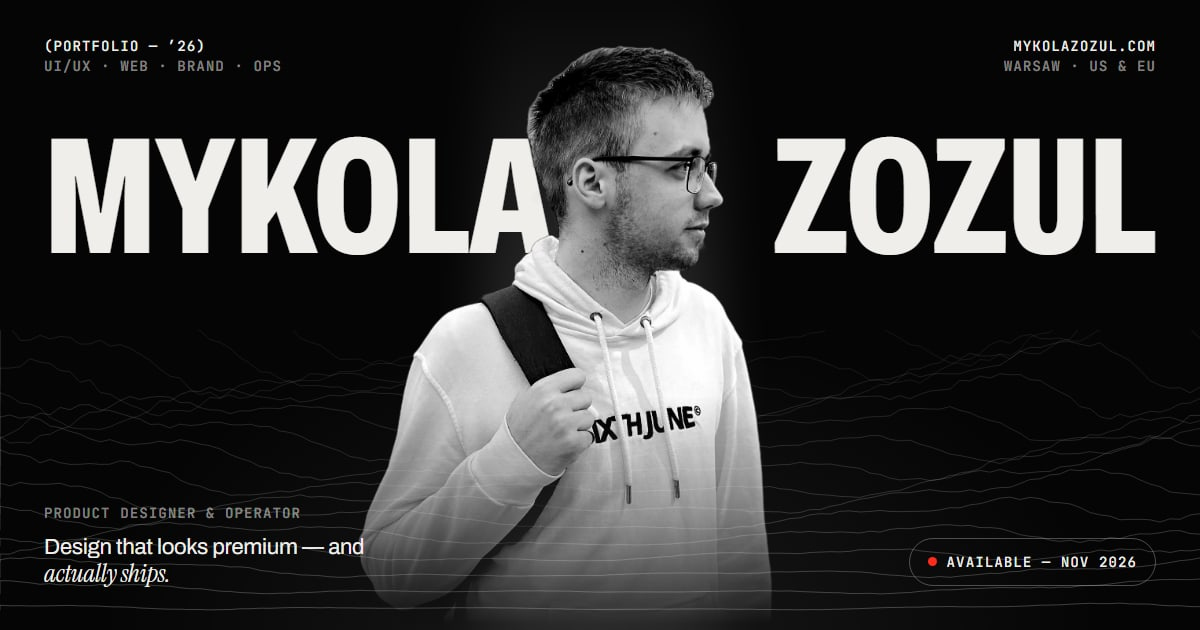
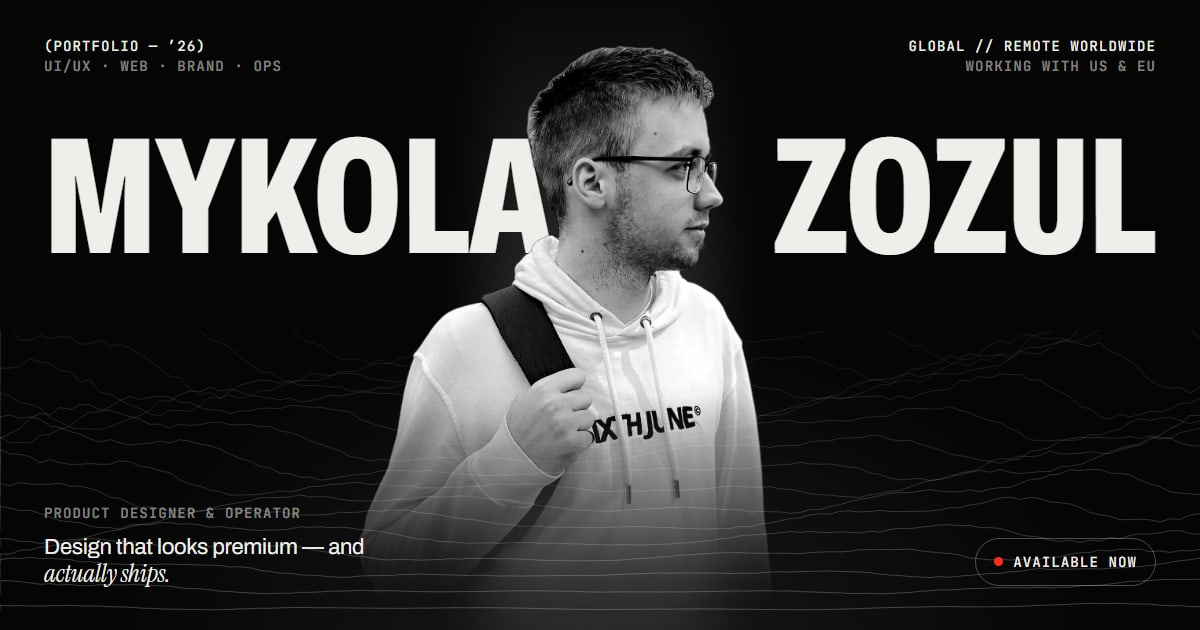
Content update: remote-worldwide, price on request, WhatsApp
- Clock shows the visitor's local time; location is "Global // Remote Worldwide"
- Availability: "Available now"; models show "Price on request"
- Support after launch: 14 days; neutral agreement copy (no B2B claim)
- Removed warehouse role and Illustrator; added WhatsApp (copy username)
- No custom domain yet: dropped canonical/og:url/sitemap, relative OG image,
  links page QR/vCard/share use the current origin
- Re-rendered OG image

Changed region(s): [[0.2775, 0.6635, 0.6475, 0.9651], [0.74, 0.0603, 0.9867, 0.1206], [0.7708, 0.8746, 0.9558, 0.9048]]

diff --git a/index.html b/index.html
@@ -5,7 +5,6 @@
   <meta name="viewport" content="width=device-width, initial-scale=1, viewport-fit=cover">
   <title>Mykola Zozul — Product Designer &amp; Operator | UI/UX, Web &amp; Brand Design</title>
   <meta name="description" content="Mykola Zozul — product designer and operator for startups and brands in the US and EU. UI/UX, websites, brand identity and motion, plus the operations to ship them. Founder of Vertex Studio.">
-  <link rel="canonical" href="https://mykolazozul.com/">
   <meta name="theme-color" content="#050505">
   <meta name="color-scheme" content="dark">
   <meta name="author" content="Mykola Zozul">
@@ -16,8 +15,7 @@
   <meta property="og:site_name" content="Mykola Zozul">
   <meta property="og:title" content="Mykola Zozul — Product Designer & Operator">
   <meta property="og:description" content="UI/UX, websites, brand and motion design — with the operations experience to actually ship. Working with teams in the US & EU.">
-  <meta property="og:url" content="https://mykolazozul.com/">
-  <meta property="og:image" content="https://mykolazozul.com/assets/img/og.jpg">
+  <meta property="og:image" content="/assets/img/og.jpg">
   <meta property="og:image:width" content="1200">
   <meta property="og:image:height" content="630">
   <meta property="og:image:alt" content="Mykola Zozul — product designer and operator">
@@ -26,7 +24,7 @@
   <meta name="twitter:card" content="summary_large_image">
   <meta name="twitter:title" content="Mykola Zozul — Product Designer & Operator">
   <meta name="twitter:description" content="UI/UX, websites, brand and motion design — with the operations experience to actually ship.">
-  <meta name="twitter:image" content="https://mykolazozul.com/assets/img/og.jpg">
+  <meta name="twitter:image" content="/assets/img/og.jpg">
 
   <link rel="preload" href="/assets/fonts/archivo-var.woff2" as="font" type="font/woff2" crossorigin>
   <link rel="preload" as="image" type="image/webp" href="/assets/img/hero-cutout.webp"
@@ -42,26 +40,15 @@
     "@graph": [
       {
         "@type": "Person",
-        "@id": "https://mykolazozul.com/#person",
         "name": "Mykola Zozul",
         "alternateName": "Микола Зозуль",
         "jobTitle": "Product Designer & Operator",
         "description": "Product designer and operator. UI/UX, web, brand and motion design. Founder of Vertex Studio; former co-founder and Director of Operations at an international charity.",
-        "url": "https://mykolazozul.com/",
-        "image": "https://mykolazozul.com/assets/img/portrait-street.jpg",
         "email": "mailto:mikolazozul@gmail.com",
-        "address": { "@type": "PostalAddress", "addressLocality": "Warsaw", "addressCountry": "PL" },
         "knowsLanguage": ["uk", "pl", "en", "ru", "de"],
         "knowsAbout": ["UI/UX design", "Product design", "Web design", "Brand identity", "Motion design", "Operations", "Partnerships"],
         "worksFor": { "@type": "Organization", "name": "Vertex Studio", "url": "https://vertex-studio-three-phi.vercel.app" },
         "sameAs": ["https://www.linkedin.com/in/mikolazozul/", "https://t.me/mikolazozul", "https://www.instagram.com/mikolazozul/", "https://www.facebook.com/mikolazozul"]
-      },
-      {
-        "@type": "ProfilePage",
-        "@id": "https://mykolazozul.com/#profilepage",
-        "url": "https://mykolazozul.com/",
-        "name": "Mykola Zozul — Portfolio",
-        "mainEntity": { "@id": "https://mykolazozul.com/#person" }
       }
     ]
   }
@@ -110,7 +97,7 @@
         <a class="link-u" href="/links">Links<sup>↗</sup></a>
       </nav>
       <div class="nav__right">
-        <a class="status" href="#contact"><span class="dot"></span>Available — Nov 2026</a>
+        <a class="status" href="#contact"><span class="dot"></span>Available now</a>
         <button class="burger" type="button" aria-label="Open menu" aria-expanded="false" aria-controls="menu"><span></span><span></span></button>
       </div>
     </div>
@@ -128,7 +115,7 @@
     <div class="menu__foot mono">
       <a href="mailto:mikolazozul@gmail.com">mikolazozul@gmail.com</a>
       <a href="https://www.linkedin.com/in/mikolazozul/" target="_blank" rel="noopener">LinkedIn ↗</a>
-      <span class="mute"><span class="dot"></span>&nbsp; Available — Nov 2026</span>
+      <span class="mute"><span class="dot"></span>&nbsp; Available now</span>
     </div>
   </div>
 
@@ -157,7 +144,7 @@
       <div class="hero__top">
         <div class="wrap mono">
           <span class="fade-up" style="--d:.05s">(Portfolio — ’26)<br><span class="mute">UI/UX · Web · Brand · Ops</span></span>
-          <span class="fade-up" style="--d:.1s; text-align:right">Warsaw, PL — <span data-clock>--:--</span><br><span class="mute">52.2297° N / 21.0122° E</span></span>
+          <span class="fade-up" style="--d:.1s; text-align:right">Global // Remote Worldwide<br><span class="mute">Your time — <span data-clock>--:--</span></span></span>
         </div>
       </div>
 
@@ -400,7 +387,7 @@
               <span class="model__hatch hatch" aria-hidden="true"></span>
               <div class="model__top mono"><span>Model 01</span><span>Fixed scope</span></div>
               <h3 class="model__name">Sprint</h3>
-              <p class="model__price">from €900</p>
+              <p class="model__price">Price on request</p>
               <p class="model__text">Fixed scope, fixed price, fast. Ideal for a landing page, a product UI or a brand kit.</p>
               <ul class="model__list"><li>1–4 weeks</li><li>50% upfront · 50% on delivery</li><li>2 revision rounds</li><li>All source files included</li></ul>
               <a class="btn" href="#contact" data-plan="Sprint">Book a sprint <svg class="arrow"><use href="#i-arrow"/></svg></a>
@@ -408,7 +395,7 @@
             <article class="model model--feature" data-reveal style="--d:.1s">
               <div class="model__top mono"><span>Model 02</span><span><span class="dot"></span>&nbsp; Most chosen</span></div>
               <h3 class="model__name">Retainer</h3>
-              <p class="model__price">from €1,800 / month</p>
+              <p class="model__price">Price on request</p>
               <p class="model__text">A dedicated design &amp; operations partner on a monthly plan. Priority turnaround and continuous improvement.</p>
               <ul class="model__list"><li>Weekly priorities &amp; check-ins</li><li>Async updates — Loom, Notion, Slack</li><li>Priority response</li><li>Pause or cancel monthly</li></ul>
               <a class="btn" href="#contact" data-plan="Retainer">Start a retainer <svg class="arrow"><use href="#i-arrow"/></svg></a>
@@ -418,11 +405,11 @@
               <h3 class="model__name">Join your team</h3>
               <p class="model__price">full-time or contract</p>
               <p class="model__text">Open to remote roles: Product Designer, Design Lead, Operations Lead or Chief of Staff.</p>
-              <ul class="model__list"><li>Remote · US &amp; EU time zones</li><li>B2B contract or EOR (Deel, Remote)</li><li>Available from November 2026</li></ul>
+              <ul class="model__list"><li>Remote · US &amp; EU time zones</li><li>Full-time via EOR (Deel, Remote)</li><li>Available to start now</li></ul>
               <a class="btn" href="#contact" data-plan="Full-time / contract role">Discuss a role <svg class="arrow"><use href="#i-arrow"/></svg></a>
             </article>
           </div>
-          <p class="note mono">Prices in EUR · USD invoicing available · Final quote after a free 30-minute discovery call</p>
+          <p class="note mono">Every project is quoted individually · Fixed quote within 24h of a free 30-minute discovery call</p>
         </div>
       </section>
 
@@ -443,7 +430,7 @@
             <li class="step"><div class="step__dot"></div><p class="step__n mono">Step 01</p><h3 class="step__title">Discovery</h3><p class="step__text">A free 30-minute call: goals, audience, constraints. You get a clear plan and a fixed quote within 24 hours.</p><span class="step__time mono">Day 1</span></li>
             <li class="step"><div class="step__dot"></div><p class="step__n mono">Step 02</p><h3 class="step__title">Strategy &amp; design</h3><p class="step__text">Structure, wireframes and visual direction. Weekly check-ins and async updates, so you never have to chase.</p><span class="step__time mono">Week 1–2</span></li>
             <li class="step"><div class="step__dot"></div><p class="step__n mono">Step 03</p><h3 class="step__title">Build &amp; refine</h3><p class="step__text">Development, motion and content. Two rounds of revisions included — decisions documented, nothing lost.</p><span class="step__time mono">Week 2–3</span></li>
-            <li class="step"><div class="step__dot"></div><p class="step__n mono">Step 04</p><h3 class="step__title">Launch &amp; support</h3><p class="step__text">Deploy, handover and analytics. 30 days of support after launch, and every file and account belongs to you.</p><span class="step__time mono">Launch +30 days</span></li>
+            <li class="step"><div class="step__dot"></div><p class="step__n mono">Step 04</p><h3 class="step__title">Launch &amp; support</h3><p class="step__text">Deploy, handover and analytics. 14 days of support after launch, and every file and account belongs to you.</p><span class="step__time mono">Launch +14 days</span></li>
           </ol>
         </div>
       </section>
@@ -468,29 +455,29 @@
               <span class="line-mask"><span>Hi, I’m Mykola</span></span>
               <span class="line-mask"><span class="serif">— nice to meet you.</span></span>
             </h2>
-            <p class="about__lead" data-reveal>A Ukrainian product designer based in Warsaw, working remotely with teams across Europe and the US.</p>
+            <p class="about__lead" data-reveal>A Ukrainian product designer working remotely with teams across Europe and the US.</p>
             <p class="about__text" data-reveal>I started with video editing and motion in 2020, moved into UI/UX and graphic design, and studied Software Engineering along the way — so I design with how things get built in mind.</p>
             <p class="about__text" data-reveal>Then I co-founded a charity and spent two years running its operations: partners, logistics, money, people. It taught me what many designers never see — budgets, deadlines and the real cost of unclear decisions. Today I bring both sides to every project.</p>
 
             <dl class="facts" data-reveal>
-              <div class="fact"><dt class="mono">Based in</dt><dd>Warsaw, Poland <span>· remote worldwide · open to relocation</span></dd></div>
+              <div class="fact"><dt class="mono">Location</dt><dd>Global // Remote Worldwide <span>· open to relocation</span></dd></div>
               <div class="fact"><dt class="mono">Languages</dt><dd>Ukrainian <span>(native)</span> · Russian <span>(fluent)</span> · Polish <span>(B1)</span> · English <span>(working, improving daily)</span> · German <span>(A1)</span></dd></div>
               <div class="fact"><dt class="mono">Education</dt><dd>Software Engineering <span>· BSc studies, 2021 — 2024</span></dd></div>
-              <div class="fact"><dt class="mono">Toolkit</dt><dd><ul class="chips"><li>Figma</li><li>Photoshop</li><li>Illustrator</li><li>Premiere Pro</li><li>After Effects</li><li>AI tools</li><li>Notion</li><li>MS Office</li><li>HTML / CSS / JS</li></ul></dd></div>
+              <div class="fact"><dt class="mono">Toolkit</dt><dd><ul class="chips"><li>Figma</li><li>Photoshop</li><li>Premiere Pro</li><li>After Effects</li><li>AI tools</li><li>Notion</li><li>MS Office</li><li>HTML / CSS / JS</li></ul></dd></div>
               <div class="fact"><dt class="mono">Strengths</dt><dd>Team leadership, strategic planning, partner relations, negotiations, project coordination, financial reporting, onboarding</dd></div>
             </dl>
           </div>
         </div>
 
         <div class="strips" data-strips data-reveal="clip" aria-hidden="true">
-          <div class="strips__s" style="--i:0"><img src="/assets/img/warsaw-night.webp" alt="" loading="lazy"></div>
-          <div class="strips__s" style="--i:1"><img src="/assets/img/warsaw-night.webp" alt="" loading="lazy"></div>
-          <div class="strips__s" style="--i:2"><img src="/assets/img/warsaw-night.webp" alt="" loading="lazy"></div>
-          <div class="strips__s" style="--i:3"><img src="/assets/img/warsaw-night.webp" alt="" loading="lazy"></div>
+          <div class="strips__s" style="--i:0"><img src="/assets/img/night-city.webp" alt="" loading="lazy"></div>
+          <div class="strips__s" style="--i:1"><img src="/assets/img/night-city.webp" alt="" loading="lazy"></div>
+          <div class="strips__s" style="--i:2"><img src="/assets/img/night-city.webp" alt="" loading="lazy"></div>
+          <div class="strips__s" style="--i:3"><img src="/assets/img/night-city.webp" alt="" loading="lazy"></div>
         </div>
         <div class="strips-title" data-reveal>
-          <h3 class="spaced">Warsaw</h3>
-          <p class="mono">Based in Warsaw. Working with the world.</p>
+          <h3 class="spaced">Global</h3>
+          <p class="mono">Remote worldwide. Wherever the work is.</p>
         </div>
 
       </div>
@@ -532,11 +519,6 @@
             <div class="xp__body"><ul><li>Created graphic materials for the organisation’s campaigns and social channels.</li></ul></div>
           </article>
           <article class="xp__item" data-reveal>
-            <p class="xp__years"><b>2024</b>Poland</p>
-            <div><h3 class="xp__role">Logistics &amp; Fulfilment</h3><p class="xp__org">Warehouse operations</p></div>
-            <div class="xp__body"><ul><li>Packing, picking, placement and returns in a high-volume warehouse.</li><li>Trained and onboarded new staff — the hands-on side of logistics I later used in humanitarian supply chains.</li></ul></div>
-          </article>
-          <article class="xp__item" data-reveal>
             <p class="xp__years"><b>2022 — 2024</b>Remote</p>
             <div><h3 class="xp__role">UI/UX &amp; Graphic Designer</h3><p class="xp__org">Freelance</p></div>
             <div class="xp__body"><ul><li>Custom UI/UX for web and mobile applications.</li><li>Presentations, logos and other graphic design for clients.</li></ul></div>
@@ -573,10 +555,10 @@
           <p class="sh__aside" data-reveal>Set up to work with founders and teams in the United States and Europe — without friction.</p>
         </header>
         <div class="why" data-glow>
-          <div class="why__cell" data-reveal><p class="why__k mono"><span>01</span><span>Time zone</span></p><p class="why__big">CET</p><p class="why__text">UTC+1. 4–5 hours of live overlap with US East Coast mornings; async-first for the West Coast.</p></div>
+          <div class="why__cell" data-reveal><p class="why__k mono"><span>01</span><span>Time zone</span></p><p class="why__big">EU + US</p><p class="why__text">Flexible hours: live overlap with the EU workday and US East Coast mornings; async-first for the West Coast.</p></div>
           <div class="why__cell" data-reveal style="--d:.06s"><p class="why__k mono"><span>02</span><span>Response</span></p><p class="why__big">&lt;24h</p><p class="why__text">A reply within one business day, and weekly progress updates — you never have to chase.</p></div>
           <div class="why__cell" data-reveal style="--d:.12s"><p class="why__k mono"><span>03</span><span>Languages</span></p><p class="why__big">5</p><p class="why__text">Ukrainian, Polish, English, Russian and German. Comfortable in international teams.</p></div>
-          <div class="why__cell" data-reveal><p class="why__k mono"><span>04</span><span>Contracts</span></p><p class="why__big">B2B</p><p class="why__text">Contractor agreement or via an Employer of Record (Deel, Remote). Invoices in EUR or USD.</p></div>
+          <div class="why__cell" data-reveal><p class="why__k mono"><span>04</span><span>Agreement</span></p><p class="why__big">Clear</p><p class="why__text">A written agreement before we start: scope, milestones, deadlines. Payment in EUR or USD.</p></div>
           <div class="why__cell" data-reveal style="--d:.06s"><p class="why__k mono"><span>05</span><span>Ownership</span></p><p class="why__big">100%</p><p class="why__text">You own every file, line of code and account. No lock-in, clean handover.</p></div>
           <div class="why__cell" data-reveal style="--d:.12s"><p class="why__k mono"><span>06</span><span>Distributed</span></p><p class="why__big">10+</p><p class="why__text">Countries in the network I coordinated. I know how to keep remote people aligned.</p></div>
         </div>
@@ -607,12 +589,13 @@
               <a class="channel" href="https://www.linkedin.com/in/mikolazozul/" target="_blank" rel="noopener"><b>LinkedIn</b><span class="mono">in/mikolazozul ↗</span></a>
               <a class="channel" href="https://t.me/mikolazozul" target="_blank" rel="noopener"><b>Telegram</b><span class="mono">@mikolazozul ↗</span></a>
               <a class="channel" href="https://www.instagram.com/mikolazozul/" target="_blank" rel="noopener"><b>Instagram</b><span class="mono">@mikolazozul ↗</span></a>
+              <button class="channel" type="button" data-copy="mikolazozul" data-copy-done="Username copied ✓"><b>WhatsApp</b><span class="mono" data-copy-label>@mikolazozul · copy</span></button>
               <a class="channel" href="https://www.facebook.com/mikolazozul" target="_blank" rel="noopener"><b>Facebook</b><span class="mono">@mikolazozul ↗</span></a>
-              <a class="channel" href="/links"><b>All links</b><span class="mono">mykolazozul.com/links →</span></a>
+              <a class="channel" href="/links"><b>All links</b><span class="mono">Every link in one place →</span></a>
             </div>
             <dl class="contact__info mono">
-              <div><dt>Availability</dt><dd>From November 2026</dd></div>
-              <div><dt>Local time</dt><dd>Warsaw — <span data-clock>--:--</span></dd></div>
+              <div><dt>Availability</dt><dd>Now — taking new projects</dd></div>
+              <div><dt>Your time</dt><dd><span data-clock>--:--</span></dd></div>
             </dl>
           </div>
 
@@ -634,10 +617,10 @@
             <div class="field field--full"><label class="mono" for="f-budget">Budget</label>
               <select id="f-budget" name="budget">
                 <option>Not sure yet</option>
-                <option>€900 – €2,500</option>
-                <option>€2,500 – €6,000</option>
-                <option>€6,000 – €12,000</option>
-                <option>€12,000+</option>
+                <option>Under €1,000</option>
+                <option>€1,000 – €3,000</option>
+                <option>€3,000 – €7,000</option>
+                <option>€7,000+</option>
                 <option>Monthly retainer</option>
               </select>
             </div>
@@ -658,7 +641,7 @@
       <div class="footer__top">
         <div>
           <p class="footer__lead">Design that looks premium — and <span class="serif">actually ships.</span></p>
-          <p class="mono mute" style="margin-top:18px"><span class="dot"></span>&nbsp; Taking projects from Nov 2026</p>
+          <p class="mono mute" style="margin-top:18px"><span class="dot"></span>&nbsp; Taking new projects now</p>
         </div>
         <div>
           <h4 class="mono">Navigate</h4>
@@ -678,7 +661,7 @@
     <div class="footer__bar">
       <div class="wrap" style="display:flex;justify-content:space-between;gap:16px;flex-wrap:wrap">
         <span class="mono">© 2026 Mykola Zozul</span>
-        <span class="mono">Warsaw — <span data-clock>--:--</span> CET</span>
+        <span class="mono">Global // Remote Worldwide</span>
         <span class="mono">Designed &amp; built by Mykola Zozul</span>
       </div>
     </div>

diff --git a/links.html b/links.html
@@ -5,17 +5,15 @@
   <meta name="viewport" content="width=device-width, initial-scale=1, viewport-fit=cover">
   <title>Mykola Zozul — Links</title>
   <meta name="description" content="All links of Mykola Zozul — product designer & operator. Portfolio, Vertex Studio, LinkedIn, Telegram, Instagram, Facebook and email.">
-  <link rel="canonical" href="https://mykolazozul.com/links">
   <meta name="theme-color" content="#050505">
   <meta property="og:title" content="Mykola Zozul — Links">
   <meta property="og:description" content="Portfolio, studio and contacts in one place.">
-  <meta property="og:url" content="https://mykolazozul.com/links">
-  <meta property="og:image" content="https://mykolazozul.com/assets/img/og.jpg">
+  <meta property="og:image" content="/assets/img/og.jpg">
   <meta property="og:image:width" content="1200">
   <meta property="og:image:height" content="630">
   <meta property="og:image:alt" content="Mykola Zozul — product designer and operator">
   <meta name="twitter:card" content="summary_large_image">
-  <meta name="twitter:image" content="https://mykolazozul.com/assets/img/og.jpg">
+  <meta name="twitter:image" content="/assets/img/og.jpg">
   <link rel="icon" href="/favicon.svg" type="image/svg+xml">
   <link rel="preload" href="/assets/fonts/archivo-var.woff2" as="font" type="font/woff2" crossorigin>
   <link rel="stylesheet" href="/assets/css/style.css">
@@ -61,6 +59,7 @@
   <svg width="0" height="0" style="position:absolute" aria-hidden="true">
     <symbol id="i-tg" viewBox="0 0 24 24"><path d="M21.2 3.6 2.9 10.6c-1 .4-1 1.7 0 2l4.5 1.4 1.7 5.4c.2.8 1.2 1 1.8.4l2.5-2.4 4.6 3.4c.7.5 1.7.1 1.9-.7l3-14.9c.2-1-.8-1.9-1.7-1.6Z" fill="none" stroke="currentColor" stroke-width="1.5" stroke-linejoin="round"/><path d="m7.4 14 9.6-6.6-7.2 7.7" fill="none" stroke="currentColor" stroke-width="1.5" stroke-linejoin="round"/></symbol>
     <symbol id="i-in" viewBox="0 0 24 24"><rect x="3" y="3" width="18" height="18" rx="3" fill="none" stroke="currentColor" stroke-width="1.5"/><path d="M7.5 10v6.5M7.5 7.4v.1M11 16.5V10m0 3.2c0-1.8 1-3.3 2.7-3.3 1.6 0 2.3 1.1 2.3 2.9v3.7" fill="none" stroke="currentColor" stroke-width="1.6" stroke-linecap="round"/></symbol>
+    <symbol id="i-wa" viewBox="0 0 24 24"><path d="M4.2 19.8 5.3 16A8.2 8.2 0 1 1 8.4 19l-4.2.8Z" fill="none" stroke="currentColor" stroke-width="1.5" stroke-linejoin="round"/><path d="M9 8.6c.2-.5.6-.5.9-.5.3 0 .5.5.8 1.2.2.5-.4.9-.5 1.1.4 1 1.3 1.9 2.3 2.4.3-.2.6-.8 1.1-.6.6.3 1.2.6 1.2.9 0 .6-.6 1.4-1.4 1.4-2.4 0-5.3-2.8-5.3-5.2 0-.3.4-.6.9-.7Z" fill="currentColor"/></symbol>
     <symbol id="i-ig" viewBox="0 0 24 24"><rect x="3" y="3" width="18" height="18" rx="5" fill="none" stroke="currentColor" stroke-width="1.5"/><circle cx="12" cy="12" r="4.1" fill="none" stroke="currentColor" stroke-width="1.5"/><circle cx="17.4" cy="6.6" r="1.1" fill="currentColor"/></symbol>
     <symbol id="i-fb" viewBox="0 0 24 24"><path d="M14 8.6V6.9c0-.8.5-1.3 1.3-1.3H17V2.6h-2.6c-2.5 0-3.8 1.5-3.8 3.9v2.1H8v3.1h2.6v9.8H14v-9.8h2.7l.4-3.1H14Z" fill="currentColor"/></symbol>
     <symbol id="i-mail" viewBox="0 0 24 24"><rect x="3" y="5" width="18" height="14" rx="2" fill="none" stroke="currentColor" stroke-width="1.5"/><path d="m3.5 6.5 8.5 6.5 8.5-6.5" fill="none" stroke="currentColor" stroke-width="1.5"/></symbol>
@@ -74,7 +73,7 @@
     <div class="lk__col">
       <div class="lk__top">
         <a class="logo" href="/"><span class="logo__mark"><span>MZ</span></span></a>
-        <span class="mono mute">Warsaw — <span data-clock>--:--</span></span>
+        <span class="mono mute">Your time — <span data-clock>--:--</span></span>
       </div>
 
       <div class="lk__strips" aria-hidden="true">
@@ -86,7 +85,7 @@
 
       <h1 class="lk__name"><span class="spaced">Mykola Zozul</span></h1>
       <p class="lk__role mono">Product designer &amp; operator · Founder, Vertex Studio</p>
-      <div class="lk__status"><span class="status"><span class="dot"></span>Available — Nov 2026</span></div>
+      <div class="lk__status"><span class="status"><span class="dot"></span>Available now</span></div>
 
       <nav class="lk__list" aria-label="Links">
         <a class="lk__item lk__item--main" href="/"><span class="lk__ico"><svg><use href="#i-mz"/></svg></span><span><span class="lk__title">Portfolio</span><span class="lk__sub">Work, services &amp; experience</span></span><svg width="18" height="18"><use href="#i-ne"/></svg></a>
@@ -95,6 +94,7 @@
         <a class="lk__item" href="mailto:mikolazozul@gmail.com"><span class="lk__ico"><svg><use href="#i-mail"/></svg></span><span><span class="lk__title">Email</span><span class="lk__sub">mikolazozul@gmail.com</span></span><svg width="18" height="18"><use href="#i-ne"/></svg></a>
         <a class="lk__item" href="https://t.me/mikolazozul" target="_blank" rel="noopener"><span class="lk__ico"><svg><use href="#i-tg"/></svg></span><span><span class="lk__title">Telegram</span><span class="lk__sub">@mikolazozul — fastest reply</span></span><svg width="18" height="18"><use href="#i-ne"/></svg></a>
         <a class="lk__item" href="https://www.instagram.com/mikolazozul/" target="_blank" rel="noopener"><span class="lk__ico"><svg><use href="#i-ig"/></svg></span><span><span class="lk__title">Instagram</span><span class="lk__sub">@mikolazozul</span></span><svg width="18" height="18"><use href="#i-ne"/></svg></a>
+        <button class="lk__item" type="button" data-wa style="width:100%;text-align:left"><span class="lk__ico"><svg><use href="#i-wa"/></svg></span><span><span class="lk__title">WhatsApp</span><span class="lk__sub" data-wa-sub>@mikolazozul — tap to copy username</span></span><svg width="18" height="18"><use href="#i-ne"/></svg></button>
         <a class="lk__item" href="https://www.facebook.com/mikolazozul" target="_blank" rel="noopener"><span class="lk__ico"><svg><use href="#i-fb"/></svg></span><span><span class="lk__title">Facebook</span><span class="lk__sub">@mikolazozul</span></span><svg width="18" height="18"><use href="#i-ne"/></svg></a>
       </nav>
 
@@ -103,29 +103,36 @@
         <button type="button" data-share>Share</button>
         <button type="button" data-qr>QR code</button>
       </div>
-      <div class="lk__qr" data-qr-box><div data-qr-svg></div><p class="mono" style="margin-top:10px">mykolazozul.com/links</p></div>
+      <div class="lk__qr" data-qr-box><div data-qr-svg></div><p class="mono" style="margin-top:10px" data-qr-url></p></div>
 
-      <div class="lk__foot mono"><span>© 2026 Mykola Zozul</span><a class="link-u" href="/">mykolazozul.com</a></div>
+      <div class="lk__foot mono"><span>© 2026 Mykola Zozul</span><a class="link-u" href="/">Portfolio →</a></div>
     </div>
   </main>
 
   <script src="/assets/vendor/qrcode.js" defer></script>
   <script>
     (function () {
-      var URL_ = 'https://mykolazozul.com/links';
-      var fmt = new Intl.DateTimeFormat('en-GB', { timeZone: 'Europe/Warsaw', hour: '2-digit', minute: '2-digit' });
+      var URL_ = location.origin + '/links';
+      document.querySelector('[data-qr-url]').textContent = location.host + '/links';
+      var fmt = new Intl.DateTimeFormat(undefined, { hour: '2-digit', minute: '2-digit' });
       var tick = function () { document.querySelectorAll('[data-clock]').forEach(function (e) { e.textContent = fmt.format(new Date()); }); };
       tick(); setInterval(tick, 15000);
       var flash = function (b, t) { var o = b.textContent; b.textContent = t; b.classList.add('is-done'); setTimeout(function () { b.textContent = o; b.classList.remove('is-done'); }, 1800); };
 
       document.querySelector('[data-vcard]').addEventListener('click', function (e) {
         var v = ['BEGIN:VCARD', 'VERSION:3.0', 'N:Zozul;Mykola;;;', 'FN:Mykola Zozul', 'TITLE:Product Designer & Operator', 'ORG:Vertex Studio',
-          'EMAIL;TYPE=INTERNET:mikolazozul@gmail.com', 'URL:https://mykolazozul.com', 'X-SOCIALPROFILE;type=linkedin:https://www.linkedin.com/in/mikolazozul/', 'X-SOCIALPROFILE;type=telegram:https://t.me/mikolazozul',
+          'EMAIL;TYPE=INTERNET:mikolazozul@gmail.com', 'URL:' + location.origin, 'X-SOCIALPROFILE;type=linkedin:https://www.linkedin.com/in/mikolazozul/', 'X-SOCIALPROFILE;type=telegram:https://t.me/mikolazozul',
           'X-SOCIALPROFILE;type=instagram:https://www.instagram.com/mikolazozul/', 'END:VCARD'].join('\r\n');
         var a = document.createElement('a');
         a.href = URL.createObjectURL(new Blob([v], { type: 'text/vcard' }));
         a.download = 'Mykola-Zozul.vcf'; document.body.appendChild(a); a.click(); a.remove();
         flash(e.currentTarget, 'Saved ✓');
+      });
+
+      document.querySelector('[data-wa]').addEventListener('click', function () {
+        var sub = document.querySelector('[data-wa-sub]'), old = sub.textContent;
+        (navigator.clipboard ? navigator.clipboard.writeText('mikolazozul') : Promise.reject()).then(function () { sub.textContent = 'Username copied ✓ — paste it in WhatsApp search'; }, function () { sub.textContent = 'Search @mikolazozul in WhatsApp'; });
+        setTimeout(function () { sub.textContent = old; }, 2600);
       });
 
       document.querySelector('[data-share]').addEventListener('click', function (e) {

diff --git a/assets/js/main.js b/assets/js/main.js
@@ -59,7 +59,7 @@ function preloader() {
 function clock() {
   const els = $$('[data-clock]');
   if (!els.length) return;
-  const fmt = new Intl.DateTimeFormat('en-GB', { timeZone: 'Europe/Warsaw', hour: '2-digit', minute: '2-digit' });
+  const fmt = new Intl.DateTimeFormat(undefined, { hour: '2-digit', minute: '2-digit' });
   const set = () => { const t = fmt.format(new Date()); els.forEach((e) => (e.textContent = t)); };
   set();
   setInterval(set, 15000);
@@ -283,9 +283,10 @@ function copy() {
         const t = document.createElement('textarea'); t.value = text; document.body.appendChild(t); t.select();
         try { document.execCommand('copy'); } catch (err) {} t.remove();
       }
-      const old = btn.textContent;
-      btn.textContent = 'Copied ✓'; btn.classList.add('is-done');
-      setTimeout(() => { btn.textContent = old; btn.classList.remove('is-done'); }, 1800);
+      const label = $('[data-copy-label]', btn) || btn;
+      const old = label.textContent;
+      label.textContent = btn.dataset.copyDone || 'Copied ✓'; btn.classList.add('is-done');
+      setTimeout(() => { label.textContent = old; btn.classList.remove('is-done'); }, 1800);
     });
   });
 }
@@ -297,7 +298,6 @@ function form() {
     const plan = b.dataset.plan;
     if (plan.startsWith('Full-time')) f.type.value = 'Full-time / contract role';
     if (plan === 'Retainer') f.budget.value = 'Monthly retainer';
-    if (plan === 'Sprint') f.budget.value = '€900 – €2,500';
   }));
   f.addEventListener('submit', (e) => {
     e.preventDefault();

diff --git a/assets/css/style.css b/assets/css/style.css
@@ -985,3 +985,5 @@ html.no-preload .preloader { display: none; }
 }
 
 @media (hover: none) { .case__hint { display: none; } }
+button.channel { width: 100%; text-align: left; border-bottom: 1px solid var(--line); }
+button.channel.is-done span { color: var(--white); }
